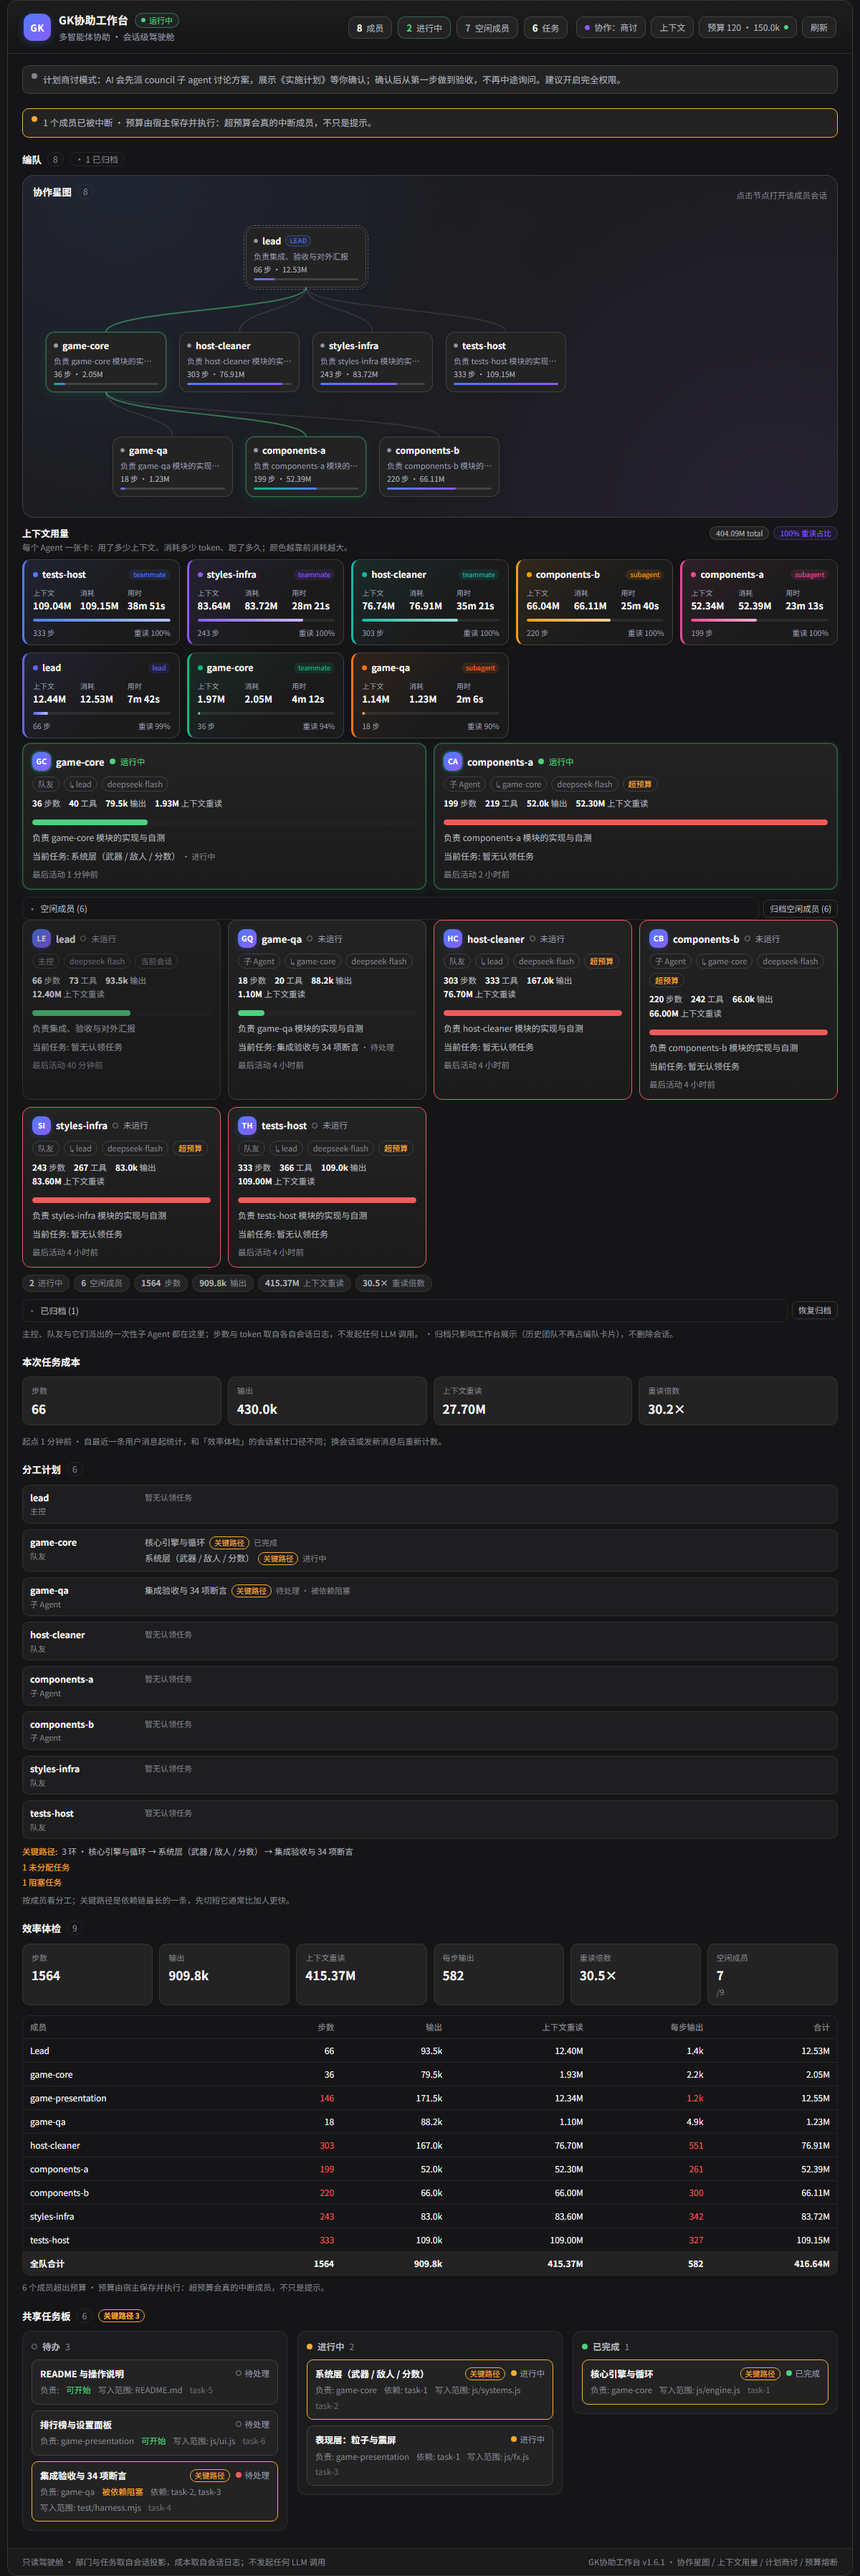
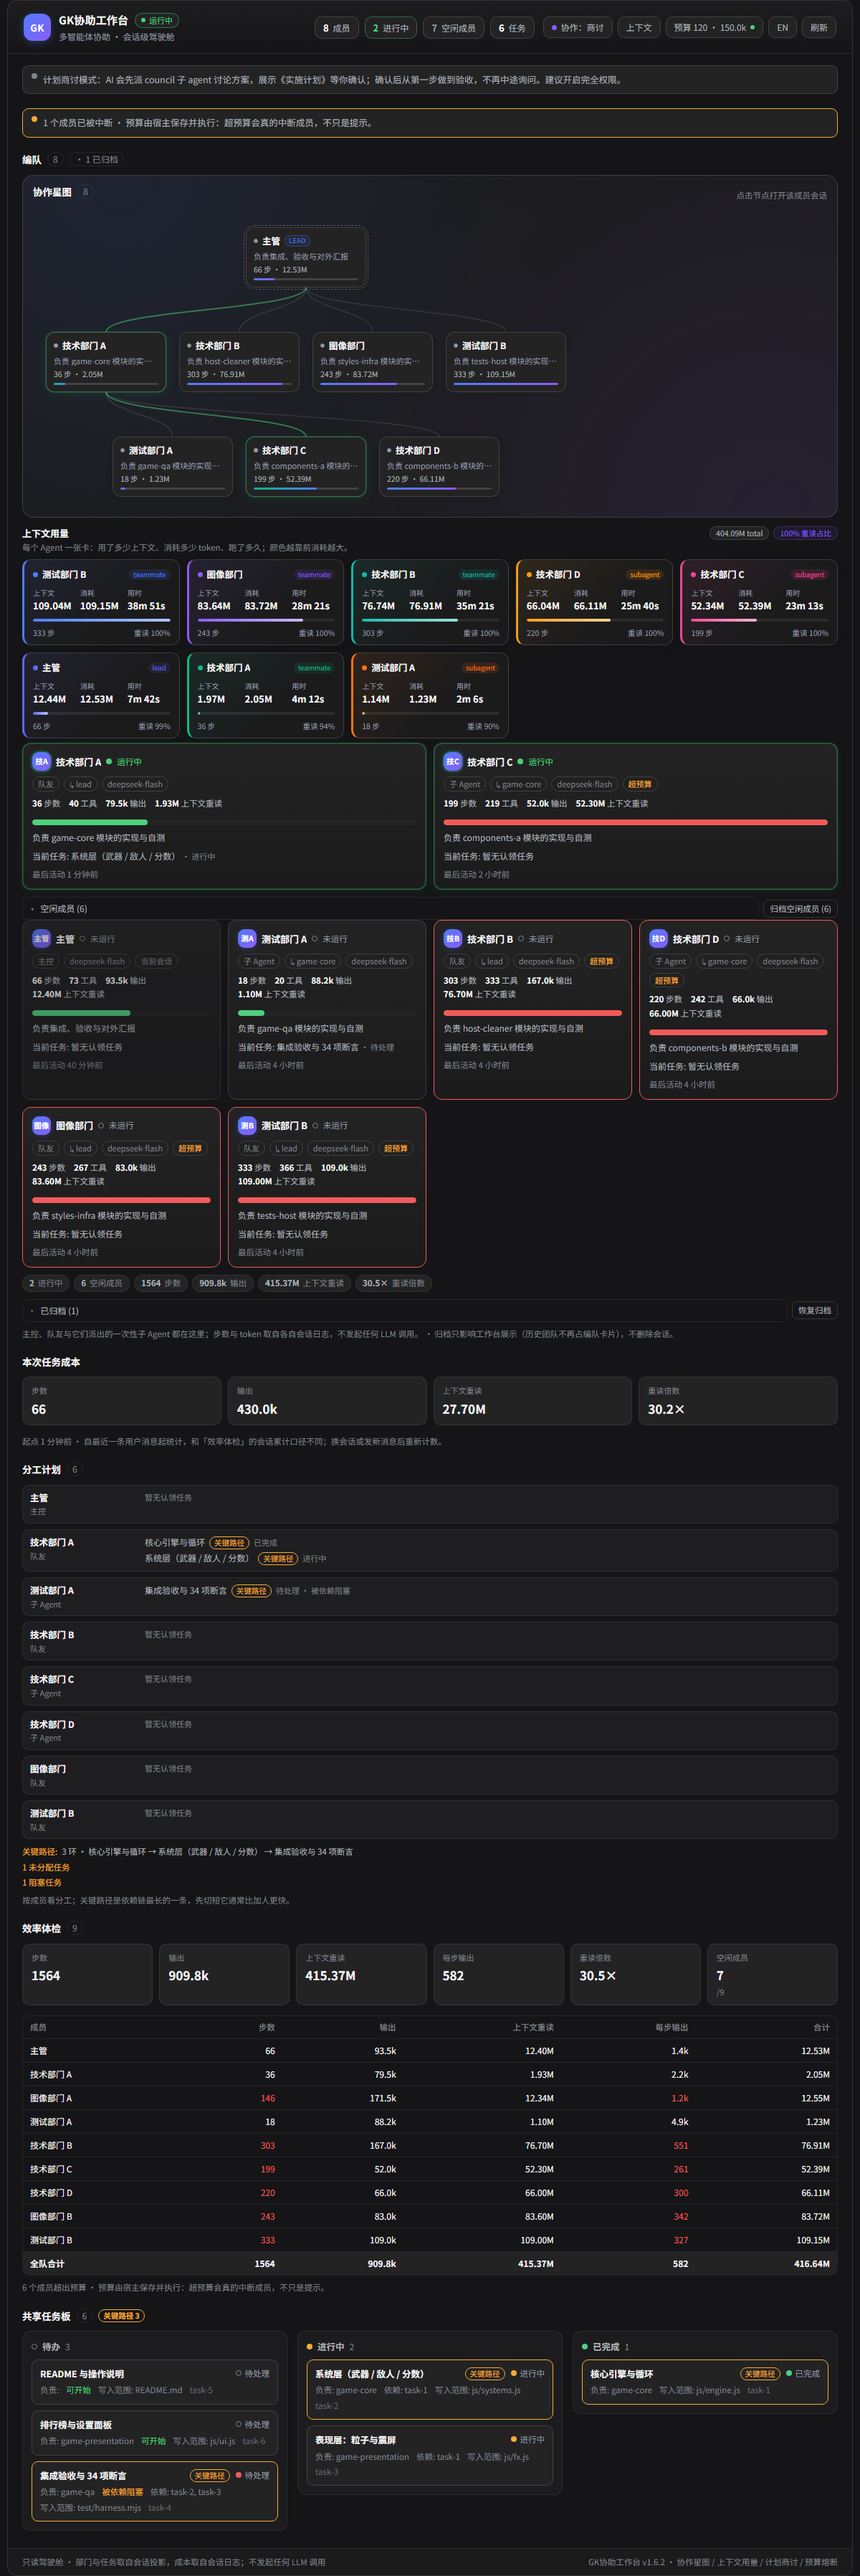
GK协助工作台 v1.6.2：中文部门名 + 中英切换

diff --git a/packages/dsh-agent-cockpit/client.js b/packages/dsh-agent-cockpit/client.js
@@ -460,7 +460,7 @@ window.__ModuleLoader__.load({
       archivedGroup: '已归档',
       restoreArchived: '恢复归档',
       archivedHint: '归档只影响工作台展示（历史团队不再占编队卡片），不删除会话。',
-      versionNote: 'GK协助工作台 v1.6.1 · 协作星图 / 上下文用量 / 计划商讨 / 预算熔断',
+      versionNote: 'GK协助工作台 v1.6.2 · 协作星图 / 上下文用量 / 计划商讨 / 预算熔断',
     };
 
     const en = {
@@ -654,7 +654,7 @@ window.__ModuleLoader__.load({
       archivedGroup: 'Archived',
       restoreArchived: 'Restore',
       archivedHint: 'Archiving only hides cards here (old teams stop occupying the fleet); sessions are not deleted.',
-      versionNote: 'GK Workbench v1.6.1 · collaboration map / context usage / council preset',
+      versionNote: 'GK Workbench v1.6.2 · collaboration map / context usage / council preset',
     };
 
     /* ── small shared helpers ───────────────────────────────────────────── */
@@ -1041,8 +1041,8 @@ window.__ModuleLoader__.load({
 
       const children = [
         h('div', { className: 'acp_cardTop', key: 'top' }, [
-          h('span', { className: 'acp_avatar' + (isRunningRow(row) ? ' acp_avatarRun' : ''), key: 'avatar' }, initialsOf(row.name)),
-          h('span', { className: 'acp_name', key: 'name', title: row.name }, String(row.name)),
+          h('span', { className: 'acp_avatar' + (isRunningRow(row) ? ' acp_avatarRun' : ''), key: 'avatar' }, initialsOf(props.displayName ? props.displayName(row) : row.name)),
+          h('span', { className: 'acp_name', key: 'name', title: row.name }, String(props.displayName ? props.displayName(row) : row.name)),
           h('span', { className: dotClass(status), key: 'dot' }),
           h('span', { className: 'acp_statusLabel', key: 'status' }, t(statusKey(status))),
         ]),
@@ -1156,6 +1156,46 @@ window.__ModuleLoader__.load({
       ]);
     }
 
+    const DEPARTMENT_RULES = [
+      [/test|qa|verify|验收|测试/i, '测试部门'],
+      [/image|graphic|render|visual|style|presentation|fx|ui|图像|视觉|界面|图片/i, '图像部门'],
+      [/doc|readme|文档/i, '文档部门'],
+      [/data|model|数据/i, '数据部门'],
+      [/research|search|调研/i, '调研部门'],
+    ];
+
+    function departmentBase(row) {
+      if (!row) return '技术部门';
+      if (String(row.role || '') === 'lead') return '主管';
+      const text = String(row.name || '') + ' ' + String(row.description || '');
+      for (const rule of DEPARTMENT_RULES) {
+        if (rule[0].test(text)) return rule[1];
+      }
+      return '技术部门';
+    }
+
+    function departmentNames(rows) {
+      const list = Array.isArray(rows) ? rows : [];
+      const counts = new Map();
+      for (const row of list) {
+        const base = departmentBase(row);
+        counts.set(base, (counts.get(base) || 0) + 1);
+      }
+      const used = new Map();
+      const names = new Map();
+      for (const row of list) {
+        const base = departmentBase(row);
+        let label = base;
+        if (base !== '主管' && (counts.get(base) || 0) > 1) {
+          const n = (used.get(base) || 0) + 1;
+          used.set(base, n);
+          label = base + ' ' + String.fromCharCode(64 + n);
+        }
+        names.set(String(row.id), label);
+      }
+      return names;
+    }
+
     function initialsOf(name) {
       const s = String(name || '').trim();
       if (!s) return 'AI';
@@ -1208,7 +1248,7 @@ window.__ModuleLoader__.load({
         }, [
           h('div', { className: 'acp_ctxCardHead', key: 'head' }, [
             h('span', { className: 'acp_ctxDot', key: 'dot' }),
-            h('span', { className: 'acp_ctxName', key: 'name', title: String(x.row.name) }, String(x.row.name)),
+            h('span', { className: 'acp_ctxName', key: 'name', title: String(x.row.name) }, String(props.displayName ? props.displayName(x.row) : x.row.name)),
             h('span', { className: 'acp_ctxRole', key: 'role' }, String(x.row.role || 'agent')),
           ]),
           h('div', { className: 'acp_ctxMetrics', key: 'metrics' }, [
@@ -1324,7 +1364,7 @@ window.__ModuleLoader__.load({
         }, [
           h('span', { className: 'acp_graphHeadRow', key: 'head' }, [
             h('span', { className: 'acp_graphDot ' + (isRunningRow(r) ? 'acp_dotRun' : 'acp_dotIdle'), key: 'dot' }),
-            h('span', { className: 'acp_graphName', key: 'name' }, String(r.name)),
+            h('span', { className: 'acp_graphName', key: 'name', title: String(r.name) }, String(props.displayName ? props.displayName(r) : r.name)),
             r.role === 'lead' ? h('span', { className: 'acp_graphRole', key: 'role' }, 'LEAD') : null,
           ]),
           h('span', { className: 'acp_graphTask', key: 'task' }, task ? String(task.subject) : (r.description ? String(r.description) : t('noTask'))),
@@ -1400,6 +1440,8 @@ window.__ModuleLoader__.load({
       const hasFamilyRows = rows.length > 0;
       const count = hasFamilyRows ? visibleRows.length : members.length;
       const canArchive = typeof props.onArchive === 'function' && idle.length > 0;
+      const deptNames = departmentNames(visibleRows);
+      const displayNameOf = (row) => deptNames.get(String(row.id)) || String(row.name);
 
       const head = h('div', { className: 'acp_sectionHead', key: 'head' }, [
         h('span', { key: 'title' }, t('agents')),
@@ -1419,6 +1461,7 @@ window.__ModuleLoader__.load({
         budget: props.budget,
         sessionId: props.sessionId,
         parentName: row.parentId !== undefined && row.parentId !== '' ? names.get(String(row.parentId)) : undefined,
+        displayName: displayNameOf,
         openMember: props.openMember,
       });
 
@@ -1429,10 +1472,11 @@ window.__ModuleLoader__.load({
           rows: visibleRows,
           tasks,
           t,
+          displayName: displayNameOf,
           sessionId: props.sessionId,
           openMember: props.openMember,
         }));
-        body.push(h(ContextCards, { key: 'context-cards', rows: visibleRows, t }));
+        body.push(h(ContextCards, { key: 'context-cards', rows: visibleRows, t, displayName: displayNameOf }));
         if (active.length > 0) {
           body.push(h('div', { className: 'acp_grid', key: 'active' }, active.map(card)));
         }
@@ -1914,11 +1958,13 @@ window.__ModuleLoader__.load({
       const tasks = Array.isArray(props.tasks) ? props.tasks : [];
       const rows = Array.isArray(props.rows) ? props.rows : [];
       const members = Array.isArray(props.members) ? props.members : [];
+      const planDept = departmentNames(rows.length > 0 ? rows : members);
       const people = rows.length > 0
-        ? rows.map((row) => ({ id: row.id, name: String(row.name), role: String(row.role || '') }))
+        ? rows.map((row) => ({ id: row.id, realName: String(row.name), name: planDept.get(String(row.id)) || String(row.name), role: String(row.role || '') }))
         : members.map((member, index) => ({
           id: member.id,
-          name: String(member.name !== undefined ? member.name : member.id),
+          realName: String(member.name !== undefined ? member.name : member.id),
+          name: planDept.get(String(member.id)) || String(member.name !== undefined ? member.name : member.id),
           role: String(member.role !== undefined ? member.role : index === 0 ? 'lead' : 'teammate'),
         }));
       const hasTasks = tasks.length > 0;
@@ -1929,7 +1975,7 @@ window.__ModuleLoader__.load({
 
       const roleLabel = (role) => t(role === 'lead' ? 'roleLead' : role === 'subagent' ? 'roleSubagent' : 'roleTeammate');
       const planRows = people.map((person) => {
-        const mine = tasksOfOwner(tasks, person.name)
+        const mine = tasksOfOwner(tasks, person.realName)
           .filter((task) => task.status !== 'deleted')
           .sort((left, right) => {
             const rank = { in_progress: 0, pending: 1, completed: 2 };
@@ -1938,7 +1984,7 @@ window.__ModuleLoader__.load({
         const criticalIds = critical.ids;
         return h('div', { className: 'acp_planRow', key: String(person.id) }, [
           h('div', { key: 'who' }, [
-            h('div', { className: 'acp_planName', key: 'name', title: person.name }, person.name),
+            h('div', { className: 'acp_planName', key: 'name', title: person.realName }, person.name),
             h('div', { className: 'acp_planRole', key: 'role' }, roleLabel(person.role)),
           ]),
           h('div', { className: 'acp_planTasks', key: 'tasks' }, mine.length === 0
@@ -2054,7 +2100,7 @@ window.__ModuleLoader__.load({
       const over = !props.isTotal && overBudgetOf(row, budget);
       const overSteps = !props.isTotal && budget && budget.steps > 0 && steps > budget.steps;
       return h('tr', props.isTotal ? { className: 'acp_totalRow' } : null, [
-        h('td', { key: 'name' }, props.isTotal ? t('costTeam') : costNameOf(row, t)),
+        h('td', { key: 'name', title: row && row.name !== undefined ? String(row.name) : undefined }, props.isTotal ? t('costTeam') : (props.displayName ? props.displayName(row) : costNameOf(row, t))),
         h('td', { key: 'steps', className: overSteps ? 'acp_over' : undefined }, String(steps)),
         h('td', { key: 'output' }, fmtTokens(output)),
         h('td', { key: 'read' }, fmtTokens(read)),
@@ -2092,12 +2138,14 @@ window.__ModuleLoader__.load({
         ? String(overRows.length) + ' ' + t('budgetOver') + ' · ' + t('budgetHostHint')
         : t('costHint');
 
+      const dept = departmentNames(rows);
       const body = rows.map((row) => h(EfficiencyRow, {
         key: String(row.id),
         row,
         t,
         members,
         budget,
+        displayName: (item) => dept.get(String(item.id)) || costNameOf(item, t),
       }));
       body.push(h(EfficiencyRow, {
         key: 'totals',
@@ -2155,8 +2203,35 @@ window.__ModuleLoader__.load({
 
     /* ── the cockpit page ───────────────────────────────────────────────── */
 
+    const LANG_KEY = 'agent-cockpit:lang';
+
+    function readStoredLang() {
+      try {
+        const value = localStorage.getItem(LANG_KEY);
+        return value === 'en' || value === 'zh' ? value : '';
+      } catch (err) {
+        return '';
+      }
+    }
+
+    function writeStoredLang(value) {
+      try {
+        localStorage.setItem(LANG_KEY, value);
+      } catch (err) {
+        /* localStorage may be unavailable; the toggle still works for this render. */
+      }
+    }
+
     function Cockpit(props) {
-      const t = props.t;
+      const hostIsEn = typeof props.t === 'function' && String(props.t('title')) === en.title;
+      const langRef = React.useState(readStoredLang() || (hostIsEn ? 'en' : 'zh'));
+      const lang = langRef[0];
+      const setLang = langRef[1];
+      const table = lang === 'en' ? en : zh;
+      const t = (key) => {
+        if (table && typeof table[key] === 'string') return table[key];
+        return typeof props.t === 'function' ? props.t(key) : key;
+      };
       const useSessions = typeof props.useSessions === 'function' ? props.useSessions : useNoopSelector;
       const useSession = typeof props.useSession === 'function' ? props.useSession : useNoopSelector;
       const useSessionStatus = typeof props.useSessionStatus === 'function' ? props.useSessionStatus : useNoopSelector;
@@ -2441,6 +2516,17 @@ window.__ModuleLoader__.load({
         h('button', {
           type: 'button',
           className: 'acp_action',
+          key: 'lang',
+          title: lang === 'en' ? 'Switch to 中文' : 'Switch to English',
+          onClick: () => {
+            const next = lang === 'en' ? 'zh' : 'en';
+            if (typeof setLang === 'function') setLang(next);
+            writeStoredLang(next);
+          },
+        }, lang === 'en' ? '中文' : 'EN'),
+        h('button', {
+          type: 'button',
+          className: 'acp_action',
           key: 'refresh',
           title: t('refresh'),
           onClick: () => { if (typeof props.refresh === 'function') props.refresh(sessionId); },
@@ -2593,6 +2679,9 @@ window.__ModuleLoader__.load({
           /* Fall through to a locale-independent label. */
         }
         try {
+          const stored = readStoredLang();
+          if (stored === 'en' && typeof en[key] === 'string') return en[key];
+          if (stored === 'zh' && typeof zh[key] === 'string') return zh[key];
           const active = String(ctx.locale.getLocale() || '').toLowerCase();
           if (active.indexOf('zh') === 0 && typeof zh[key] === 'string') return zh[key];
         } catch (err) {

diff --git a/packages/dsh-agent-cockpit/host/coordination.js b/packages/dsh-agent-cockpit/host/coordination.js
@@ -44,9 +44,11 @@ const COLLAB_SET = new Set(COLLAB_TOOLS);
 
 const OFF_MODE_PROMPT = '协作模式已关闭（GK协助工作台）：本会话只做单 agent 任务，不要调用 spawn_teammate、send_message、list_agents、wait_agent、interrupt_agent、team_task_*、subagent、subagent_fork、workflow。用户要协作时会在工作台把模式切回询问或自动。';
 
-const ASK_MODE_PROMPT = '协作模式=询问（GK协助工作台）：单 agent 能完成的任务直接做，不要问。只有当你判断任务确实需要多个 agent 协同时，才先用 ask_user_question 向用户确认（说明为什么需要协作、打算派几个 agent、各自负责什么）；用户明确同意后再调用 spawn_teammate 等协作工具。在得到同意之前不要组队。';
+const NAMING_PROMPT = '命名约定（GK协助工作台）：主控对用户显示为「主管」；派队友时用中文部门名，例如 技术部门、图像部门、测试部门、文档部门、数据部门、调研部门。';
 
-const COUNCIL_MODE_PROMPT = '协作模式=计划商讨（GK协助工作台），固定两阶段，不要跳步：\n1) 商讨：收到任务后，先派 2-3 个 council 子 agent（spawn_teammate，名字 council-a / council-b / council-c），分别从「最省事的可行方案」「风险、反例与边界」「实现与验收」三个角度独立给出方案；用 send_message 收集后合并成一份《实施计划》：目标、范围、关键决策与默认假设、步骤、验收标准、风险与回退、预算估计。把计划完整展示给用户，明确写「请确认计划；确认后我会一次做到验收，不再中途询问」，然后结束本轮等待用户回复。\n2) 执行：用户确认后，按计划从第一步做到验收，不调用 ask_user_question、不中途征求许可；遇到不确定处按计划里的默认假设继续；阶段完成更新任务板；最后跑验收并给出结果与证据。除非用户主动打断，否则不要停。\n本模式禁止 ask_user_question（宿主会拒绝）：需要用户决策的内容必须在计划里一次性写清。建议在完全权限（danger-full-access）下使用，避免沙箱拦截导致中断。';
+const ASK_MODE_PROMPT = '协作模式=询问（GK协助工作台）：单 agent 能完成的任务直接做，不要问。只有当你判断任务确实需要多个 agent 协同时，才先用 ask_user_question 向用户确认（说明为什么需要协作、打算派几个 agent、各自负责什么）；用户明确同意后再调用 spawn_teammate 等协作工具。在得到同意之前不要组队。派队友时用中文部门名（技术部门/图像部门/测试部门/文档部门/数据部门/调研部门）。';
+
+const COUNCIL_MODE_PROMPT = '协作模式=计划商讨（GK协助工作台），固定两阶段，不要跳步：\n1) 商讨：收到任务后，先派 2-3 个 council 子 agent（spawn_teammate，名字 council-a / council-b / council-c），分别从「最省事的可行方案」「风险、反例与边界」「实现与验收」三个角度独立给出方案；用 send_message 收集后合并成一份《实施计划》：目标、范围、关键决策与默认假设、步骤、验收标准、风险与回退、预算估计。把计划完整展示给用户，明确写「请确认计划；确认后我会一次做到验收，不再中途询问」，然后结束本轮等待用户回复。\n2) 执行：用户确认后，按计划从第一步做到验收，不调用 ask_user_question、不中途征求许可；遇到不确定处按计划里的默认假设继续；阶段完成更新任务板；最后跑验收并给出结果与证据。除非用户主动打断，否则不要停。\n本模式禁止 ask_user_question（宿主会拒绝）：需要用户决策的内容必须在计划里一次性写清。建议在完全权限（danger-full-access）下使用，避免沙箱拦截导致中断。派 council 成员时用中文部门名（技术部门/图像部门/测试部门等）。';
 
 function safe(fn, fallback) {
   try {
@@ -99,6 +101,7 @@ export function createCoordinator(ctx) {
     if (mode === 'off') return OFF_MODE_PROMPT;
     if (mode === 'ask') return ASK_MODE_PROMPT;
     if (mode === 'council') return COUNCIL_MODE_PROMPT;
+    if (mode === 'auto') return NAMING_PROMPT;
     return '';
   }
 
@@ -332,7 +335,7 @@ export function createCoordinator(ctx) {
     },
     debugInfo() {
       return {
-        version: '1.6.1',
+        version: '1.6.2',
         started,
         guardInstalled,
         promptInstalled,

diff --git a/packages/dsh-agent-cockpit/CHANGELOG.md b/packages/dsh-agent-cockpit/CHANGELOG.md
@@ -1,5 +1,12 @@
 # Changelog
 
+## 1.6.2 (2026-11-05)
+
+- Agent 显示名改为中文部门：主管 / 技术部门 / 图像部门 / 测试部门等，同名加 A/B。
+- 星图、卡片、计划、效率表统一显示；原始名保留在 tooltip。
+- 提示词要求后续 spawn 用中文部门名。
+- 页头新增语言切换：中文 / English，选择存 localStorage，刷新后保持。
+
 ## 1.6.1 (2026-11-05)
 
 - 上下文用量改为彩色卡片：上下文 token / 消耗 / 用时，按消耗排序。
